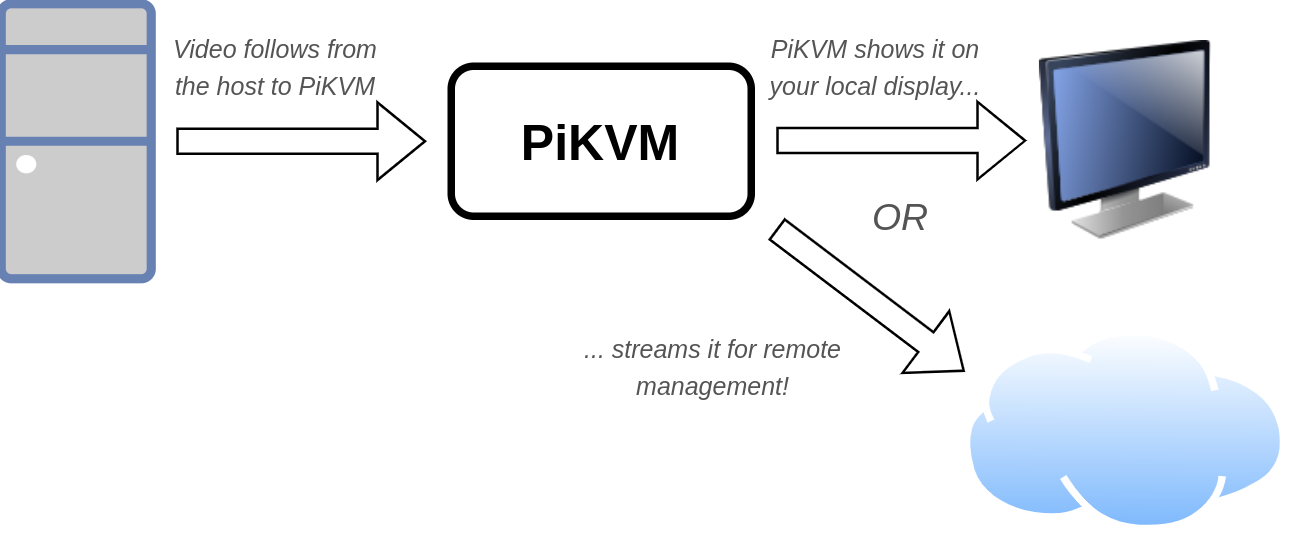
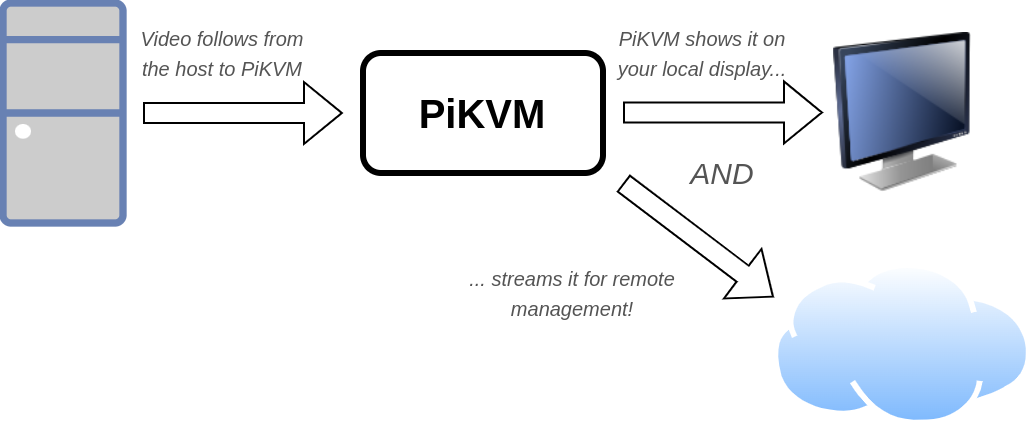
update

diff --git a/docs/pass.md b/docs/pass.md
@@ -1,7 +1,7 @@
 # HDMI Video Passthrough
 
 This is a new exclusive feature available only on **PiKVM V4 Plus**.
-It allows you to connect PiKVM to the gap between the target host and the display.
+It allows you to connect PiKVM to the gap between the target host and physical display.
 Thus, PiKVM does not interfere with the normal operation of the display and passes
 the video signal through itself until you need remote access via PiKVM
 In this case, PiKVM directs the video stream to the Web UI or VNC.
@@ -37,21 +37,27 @@ This is shown more clearly below:
     disable_overscan=1
     ```
 
-4. Enable the passthrough service:
+4. Add some config to `/etc/kvmd/override.yaml`:
 
-    ```console
-    # systemctl enable kvmd-pass
+    ```yaml
+    kvmd:
+        streamer:
+            forever: true
+            cmd_append:
+                - "--format=rgb24"
+                - "--buffers=8"
+                - "--encoder=cpu"
+                - "--v4p"
     ```
 
-5. Perform the soft reboot:
+5. Disable old alpha passthrough service and perform the soft reboot:
 
     ```console
+    # systemctl disable kvmd-pass
     # reboot
     ```
 
-After rebooting, you will see an image on the display.
-If you open the stream in the Web UI or VNC, the image on display will be temporarily stopped
-and redirected to the remote access session.
+After rebooting, you will see an image on the physical display.
 
 
 -----
@@ -72,10 +78,11 @@ disable the 1920x1200 mode on PiKVM itself:
 -----
 ## Current limitations
 
-Please note the feature is still new and will be improved.
+Please note the feature is pretty new and will be improved.
 
-* The video cannot be shown simultaneously on the display and in a remote access session.
-    During a remote session, you will see the `STREAM IS ACTIVE` text on the display instead of the image.
+* The colors in the H.264 webstream will be slightly highlighted,
+    [this is a bug in the Raspberry firmware](https://github.com/raspberrypi/firmware/issues/1885),
+    it will be fixed soon.
 
 * Display resolution must be greater than or equal to that used by PiKVM capture.
     If the maximum display resolution is 720p and the signal has a 1080p resolution, you will not see the image.
